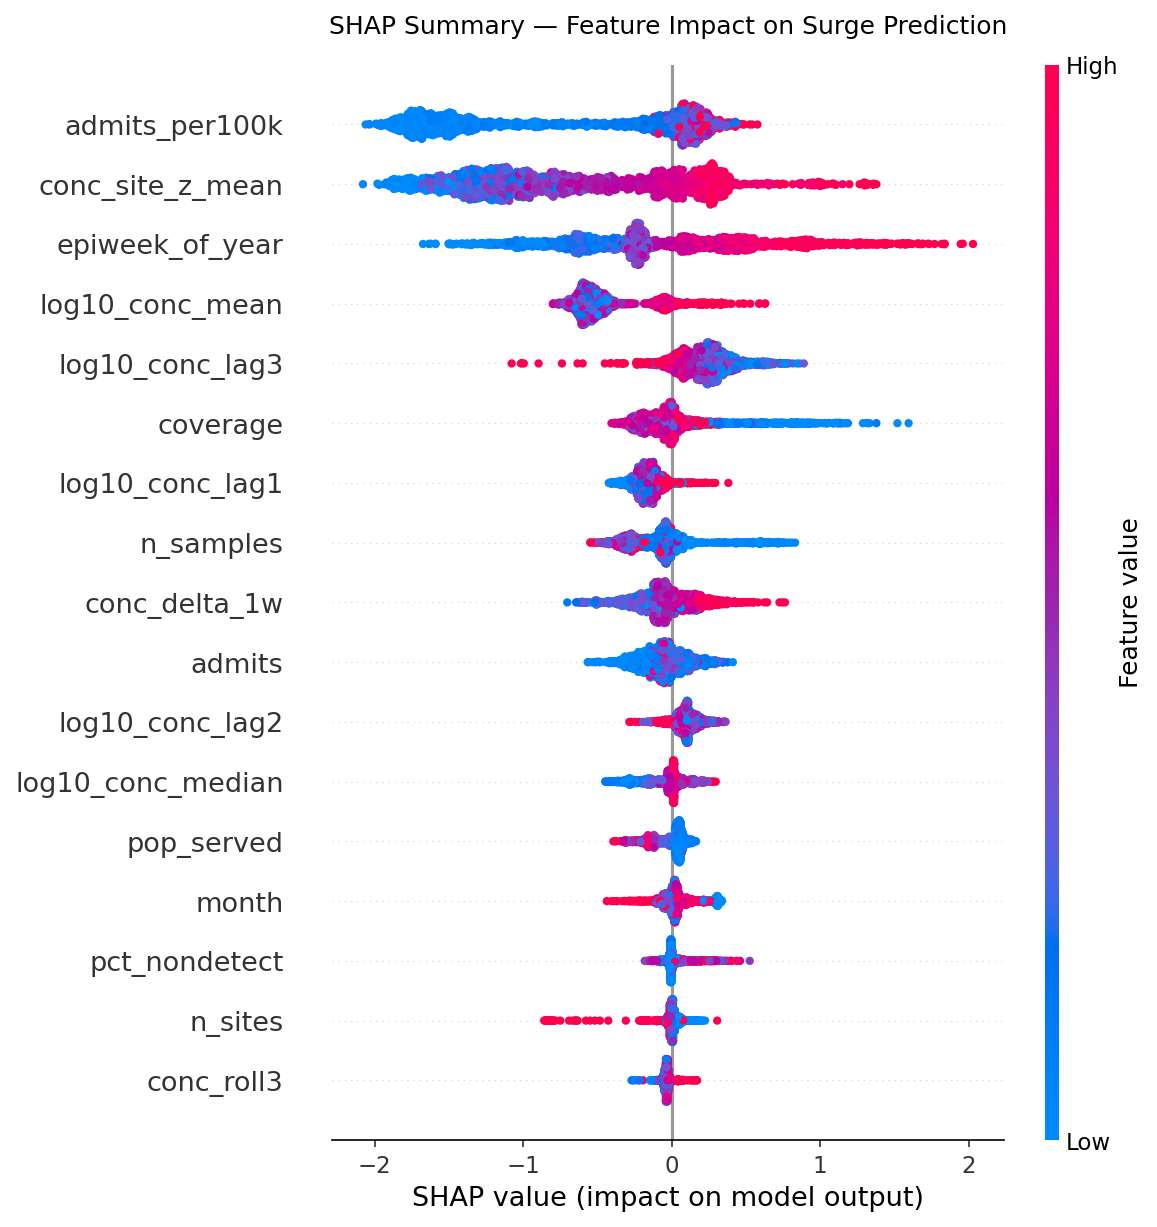
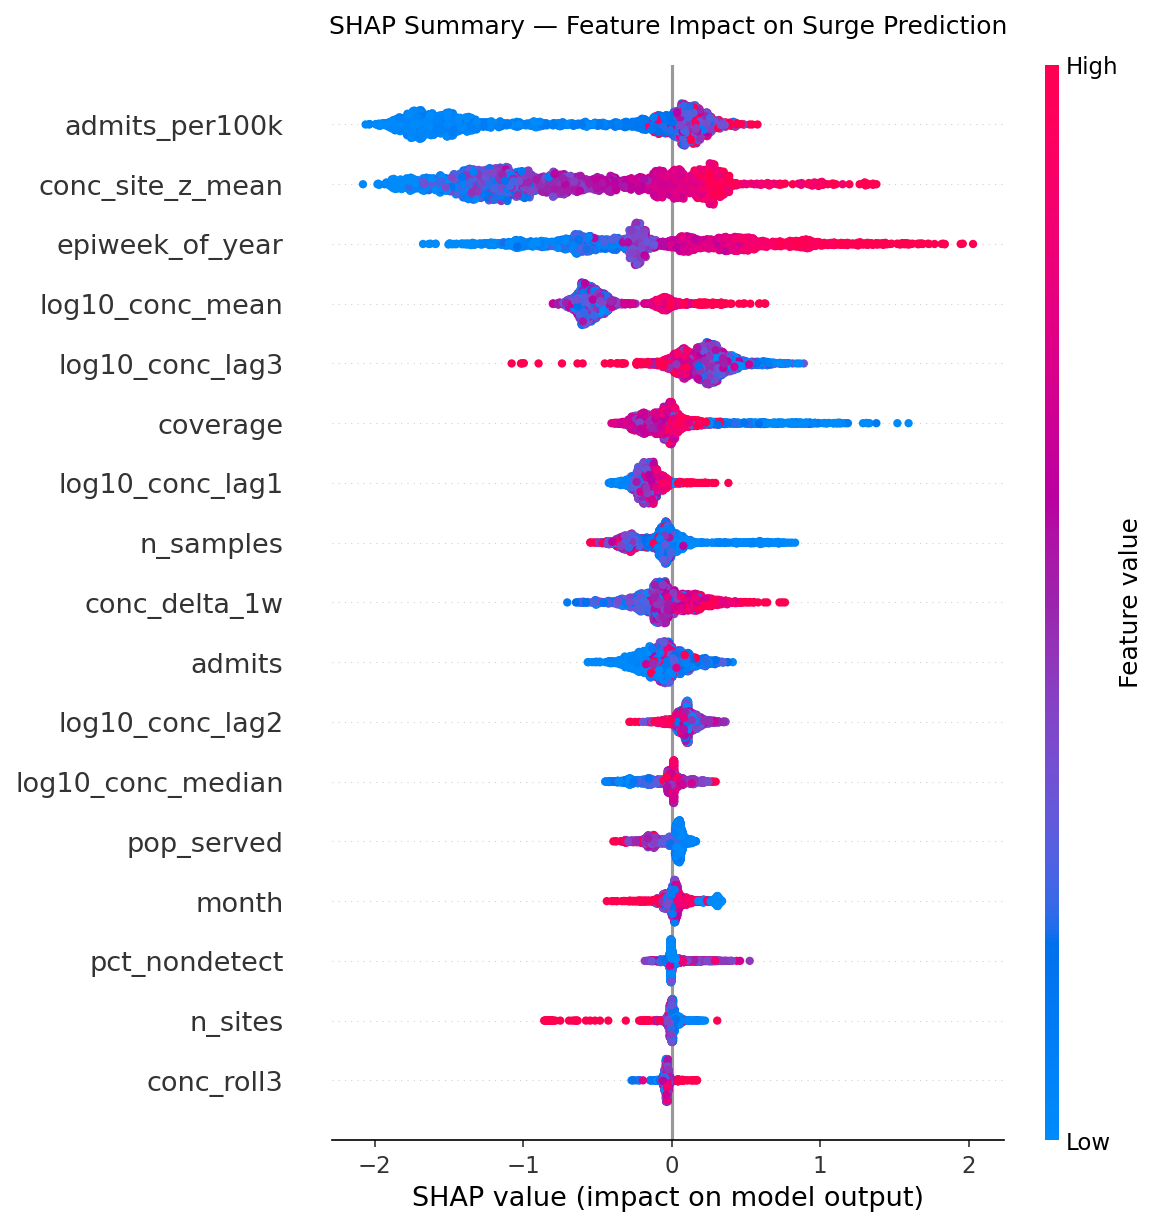
Reword code comments

Changed region(s): [[0.4978, 0.2787, 0.6845, 0.8981], [0.3423, 0.0619, 0.6534, 0.2787]]

diff --git a/final_model/build_final_pipeline.py b/final_model/build_final_pipeline.py
@@ -1,31 +1,16 @@
 """
-Builds and saves the final COVID surge-prediction pipeline.
+Builds the final XGBoost pipeline and saves it into this folder.
 
-Two things happen here:
+Same model as train_models.py, except this also picks a decision threshold
+instead of leaving it at the 0.5 default. Only about 4% of weeks are surges, so
+0.5 is way too high and the model barely flags anything. We hold out the last
+chunk of the training data as a validation set and pick the thresholds on that,
+so the test set stays untouched.
 
-1. The XGBoost pipeline is fit on the 2022+ training split, exactly as in
-   model_development/train_models.py.
+Saves three options to pick from: high_precision, balanced, high_recall.
 
-2. The decision threshold is tuned. This is the important part. Calling
-   .predict() applies a hardcoded 0.5 cutoff, which is a poor fit for a target
-   where only a few percent of weeks are surges: the model ends up flagging
-   almost nothing and misses most real surges. Instead we carve a time-based
-   validation window off the end of the training data, pick thresholds on it,
-   and save them next to the model so downstream code (the Streamlit app, the
-   docs) can use a cutoff that matches the intended trade-off.
-
-   Three operating points are saved, all chosen on validation only, never on
-   the test set:
-
-     high_precision  F0.5-optimal, fewer false alarms, catches less
-     balanced        F1-optimal
-     high_recall     F2-optimal, catches the most surges, more false alarms
-
-Outputs (written next to this script):
-  surge_prediction_pipeline.pkl  fitted pipeline
-  pipeline_features.txt          the model's feature columns, in order
-  pipeline_thresholds.json       tuned thresholds + how they were chosen
-  pipeline_test_metrics.json     test metrics at 0.5 and at each threshold
+Writes surge_prediction_pipeline.pkl, pipeline_features.txt,
+pipeline_thresholds.json and pipeline_test_metrics.json.
 """
 
 import os
@@ -58,8 +43,8 @@ DROP_COLUMNS = [
     TARGET,
 ]
 
-# Fraction of the training weeks (earliest first) used for fitting when tuning
-# thresholds; the remainder becomes the validation window.
+# How much of the training weeks to fit on when tuning. The last 20% becomes
+# the validation window.
 VAL_SPLIT = 0.8
 
 
@@ -72,9 +57,9 @@ def load():
 
 
 def make_pipeline(feature_list):
-    # Passthrough "preprocessing" that just selects and orders the engineered
-    # feature columns, so the pipeline accepts a raw merged dataframe with extra
-    # id/target columns. No scaling or imputation: XGBoost handles NaN natively.
+    # The "preprocessing" step just picks out the feature columns in the right
+    # order, so we can hand the pipeline a full dataframe with id/target columns
+    # still in it. No scaling or imputation since XGBoost handles NaN itself.
     preprocessing = ColumnTransformer(
         [("select_features", "passthrough", feature_list)],
         remainder="drop",
@@ -92,9 +77,9 @@ def make_pipeline(feature_list):
 
 
 def best_threshold(y_true, proba, beta):
-    """Threshold maximizing F-beta. beta>1 favors recall, beta<1 favors precision."""
+    """Best F-beta threshold. beta > 1 leans toward recall, beta < 1 toward precision."""
     precision, recall, thresholds = precision_recall_curve(y_true, proba)
-    # drop the trailing point, which has no corresponding threshold
+    # last point has no threshold attached, so drop it
     precision, recall = precision[:-1], recall[:-1]
     fbeta = (1 + beta ** 2) * precision * recall / (
         beta ** 2 * precision + recall + 1e-12
@@ -136,7 +121,7 @@ def main():
     print(f"Surge rate  train {train_df[TARGET].mean():.3f}   "
           f"test {test_df[TARGET].mean():.3f}")
 
-    # ---- tune thresholds on a time-based validation window -----------------
+    # ---- pick thresholds on the validation window ----
     weeks = np.sort(train_df["week_end"].unique())
     cutoff = weeks[int(len(weeks) * VAL_SPLIT)]
     inner_df = train_df[train_df["week_end"] < cutoff]
@@ -159,7 +144,7 @@ def main():
     for name, thr in thresholds.items():
         print(f"  {name:15} {thr:.4f}")
 
-    # ---- refit on the full training split -----------------------------------
+    # ---- refit on all the training data ----
     pipeline = make_pipeline(feature_list)
     pipeline.fit(train_df.drop(columns=[TARGET]), train_df[TARGET])
 
@@ -195,7 +180,7 @@ def main():
               f"{m['recall']:6.3f} {m['f1']:6.3f} {m['balanced_accuracy']:8.3f}   "
               f"{m['tp']}/{m['fp']}/{m['fn']}")
 
-    # ---- save ---------------------------------------------------------------
+    # ---- save everything ----
     joblib.dump(pipeline, os.path.join(OUT_DIR, "surge_prediction_pipeline.pkl"))
 
     with open(os.path.join(OUT_DIR, "pipeline_features.txt"), "w") as fh:

diff --git a/evaluation/evaluate_models.py b/evaluation/evaluate_models.py
@@ -59,9 +59,9 @@ except Exception as e:  # noqa: BLE001 - any import/runtime error means skip
     print("XGBoost unavailable, it will be skipped:", e)
 
 
-# ---------------------------------------------------------------------------
+# -----------------------------
 # Paths
-# ---------------------------------------------------------------------------
+# -----------------------------
 HERE = os.path.dirname(os.path.abspath(__file__))
 ROOT = os.path.dirname(HERE)
 
@@ -88,21 +88,21 @@ DROP_COLUMNS = [
     TARGET,
 ]
 
-# Validated categorical palette (dataviz skill, first three slots pass all-pairs CVD).
+# Colors picked to stay distinguishable for colorblind readers.
 COLORS = {
     "Logistic Regression": "#2a78d6",  # blue
     "Random Forest": "#eb6834",        # orange
-    "XGBoost": "#1baf7a",              # aqua
-    "Majority-class baseline": "#8a8a86",  # neutral gray (reference, not a real model)
+    "XGBoost": "#1baf7a",              # green
+    "Majority-class baseline": "#8a8a86",  # grey, since it's a reference not a real model
 }
 INK = "#0b0b0b"
 INK_SOFT = "#52514e"
 GRID = "#e2e2dd"
 
 
-# ---------------------------------------------------------------------------
+# -----------------------------
 # Load, merge, split  (identical to train_models.py)
-# ---------------------------------------------------------------------------
+# -----------------------------
 def load_data():
     features = pd.read_csv(FEATURE_FILE)
     targets = pd.read_csv(TARGET_FILE)
@@ -124,14 +124,14 @@ def load_data():
     return train_df, test_df, X_train, X_test, y_train, y_test
 
 
-# ---------------------------------------------------------------------------
+# -----------------------------
 # Model zoo  (same configs as train_models.py, plus a majority-class baseline)
-# ---------------------------------------------------------------------------
+# -----------------------------
 def build_models():
     models = {}
 
-    # Majority-class reference: always predicts "no surge". Establishes the
-    # accuracy floor that any useful model must beat on more than accuracy.
+    # Always predicts "no surge". It's here to show what accuracy you get for
+    # free, so nobody reads the real models' accuracy as impressive.
     models["Majority-class baseline"] = DummyClassifier(strategy="most_frequent")
 
     models["Logistic Regression"] = Pipeline(
@@ -169,9 +169,9 @@ def build_models():
     return models
 
 
-# ---------------------------------------------------------------------------
+# -----------------------------
 # Fit + score
-# ---------------------------------------------------------------------------
+# -----------------------------
 def evaluate(models, X_train, X_test, y_train, y_test):
     metrics = []
     proba = {}
@@ -219,9 +219,9 @@ def evaluate(models, X_train, X_test, y_train, y_test):
     return pd.DataFrame(metrics), preds, proba
 
 
-# ---------------------------------------------------------------------------
+# -----------------------------
 # Plot helpers
-# ---------------------------------------------------------------------------
+# -----------------------------
 def _style(ax):
     ax.set_facecolor("white")
     for spine in ("top", "right"):
@@ -369,9 +369,9 @@ def plot_metric_comparison(metrics_df, model_order):
     return out
 
 
-# ---------------------------------------------------------------------------
+# -----------------------------
 # Text report
-# ---------------------------------------------------------------------------
+# -----------------------------
 def write_confusion_text(metrics_df, y_test):
     lines = []
     lines.append("CONFUSION MATRICES & DERIVED RATES - 2022+ test set")
@@ -402,9 +402,9 @@ def write_confusion_text(metrics_df, y_test):
     return out
 
 
-# ---------------------------------------------------------------------------
+# -----------------------------
 # Main
-# ---------------------------------------------------------------------------
+# -----------------------------
 def main():
     print("Loading data...")
     train_df, test_df, X_train, X_test, y_train, y_test = load_data()

diff --git a/app/app.py b/app/app.py
@@ -1,11 +1,10 @@
 """
-Streamlit app for the COVID-19 surge prediction model.
+Streamlit app for the surge prediction model.
 
-Loads the final XGBoost pipeline from final_model/ along with the thresholds
-tuned in build_final_pipeline.py, and predicts whether a state is heading into
-a COVID admissions surge next week.
+Loads the pipeline and the tuned thresholds out of final_model/ and predicts
+whether a state is heading into a COVID admissions surge next week.
 
-Run locally with:  streamlit run app/app.py
+Run it with: streamlit run app/app.py
 """
 
 import json
@@ -24,9 +23,9 @@ DATA_PATH = BASE_DIR / "feature_matrix_era2022.csv"
 st.set_page_config(page_title="COVID-19 Surge Predictor", layout="centered")
 
 
-# ---------------------------------------------------------------------------
-# Loading (cached so Streamlit doesn't re-read on every interaction)
-# ---------------------------------------------------------------------------
+# -----------------------------
+# Load model and data (cached so it doesn't reload on every click)
+# -----------------------------
 @st.cache_resource
 def load_model():
     model = joblib.load(MODEL_PATH)
@@ -43,7 +42,7 @@ def load_reference_data():
 
 model, FEATURES, THRESHOLD_INFO = load_model()
 
-# Human-readable labels and help text for each model input.
+# Labels and tooltips for each input, so the form isn't just raw column names.
 LABELS = {
     "log10_conc_mean": ("Average wastewater concentration (log10)",
                         "Mean viral concentration across sites this week, log10 scale. Typical range 1.4 to 7.0."),
@@ -68,8 +67,8 @@ LABELS = {
     "epiweek_of_year": ("Epidemiological week", "CDC epiweek number, 1 to 52."),
 }
 
-# Reasonable starting values (medians of the 2022+ dataset), so the form is not
-# pre-filled with zeros that fall outside the range the model ever saw.
+# Medians from the 2022+ data. Starting the form at zeros was a problem before,
+# since zero is outside the range the model was trained on for most of these.
 DEFAULTS = {
     "log10_conc_mean": 4.644, "log10_conc_median": 4.678, "conc_site_z_mean": -0.011,
     "n_samples": 28.0, "n_sites": 16.0, "pct_nondetect": 0.0, "pop_served": 2662524.0,
@@ -88,9 +87,9 @@ GROUPS = [
 ]
 
 
-# ---------------------------------------------------------------------------
+# -----------------------------
 # Header
-# ---------------------------------------------------------------------------
+# -----------------------------
 st.title("COVID-19 Surge Prediction")
 st.write(
     "Predicts whether a state is heading into a COVID-19 hospital admissions "
@@ -99,9 +98,9 @@ st.write(
 )
 
 
-# ---------------------------------------------------------------------------
+# -----------------------------
 # Sidebar: alert sensitivity
-# ---------------------------------------------------------------------------
+# -----------------------------
 st.sidebar.header("Alert sensitivity")
 st.sidebar.write(
     "The model outputs a probability. This setting controls how high that "
@@ -130,9 +129,9 @@ st.sidebar.caption(
 )
 
 
-# ---------------------------------------------------------------------------
+# -----------------------------
 # Input mode
-# ---------------------------------------------------------------------------
+# -----------------------------
 mode = st.radio(
     "Input",
     ["Load a real state and week", "Enter values manually"],
@@ -187,9 +186,9 @@ else:
                         label, value=float(DEFAULTS[feat]), help=helptext)
 
 
-# ---------------------------------------------------------------------------
+# -----------------------------
 # Prediction
-# ---------------------------------------------------------------------------
+# -----------------------------
 st.divider()
 
 if st.button("Predict", type="primary", width="stretch"):

diff --git a/shap_analysis.py b/shap_analysis.py
@@ -15,9 +15,9 @@ from sklearn.metrics import (
 # ---------------------------------------------------------------------------
 # Paths
 # ---------------------------------------------------------------------------
-# Resolved from this file's location so the script runs from any directory.
-# Note: this file must NOT be named shap.py, or `import shap` above would
-# import it instead of the SHAP library.
+# Paths are relative to this file so the script works from any directory.
+# Also: don't rename this back to shap.py. That shadows the real shap library
+# and the import at the top breaks.
 ROOT = os.path.dirname(os.path.abspath(__file__))
 
 MODEL_PATH = os.path.join(ROOT, "final_model", "surge_prediction_pipeline.pkl")
